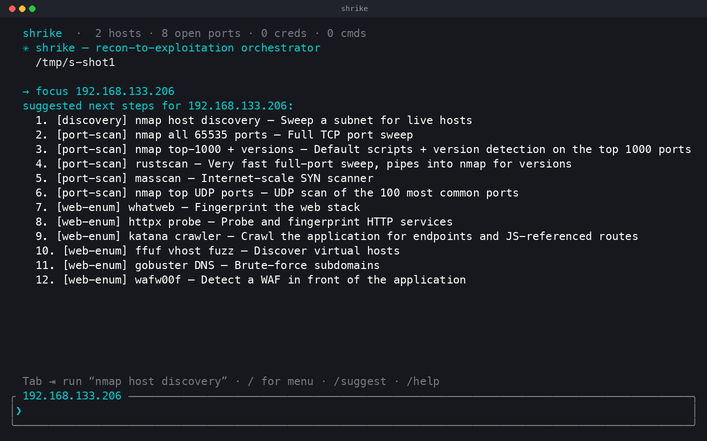
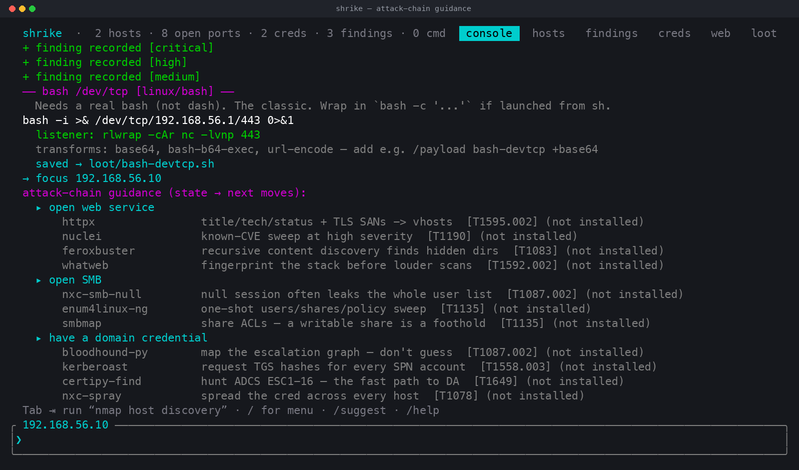
docs: polish pass — refresh screenshots, add positioning + feature coverage
- Regenerate all screenshots against the current 6-view UI (console/hosts/findings/
  creds/web/loot) with a realistic AD engagement: new hero (attack-chain guidance),
  refreshed hosts/findings/creds views, command palette, payloads, listener, and a
  new Loot view (11-view-loot.png).
- README: add a 'How it compares' section (shrike vs Metasploit vs Viper) that's
  honest about form factor and the deliberate no-agents/no-implants boundary; refresh
  the feature bullets to cover post-ex, /next guidance, scope guard, workspaces,
  vault, web dashboard and MSF; extend the screenshot gallery.
- Swap the loot-view row's emoji icons for plain text labels so it renders cleanly in
  any terminal (emoji still used in the HTML report).

diff --git a/README.md b/README.md
@@ -9,7 +9,7 @@
 📖 [Install](docs/INSTALL.md) · [Usage](docs/USAGE.md) · [Contributing](CONTRIBUTING.md) · [Security](SECURITY.md)
 
 <p align="center">
-  <img src="docs/images/01-overview.png" alt="shrike — context-aware next-step suggestions" width="100%">
+  <img src="docs/images/01-overview.png" alt="shrike — state-aware attack-chain guidance" width="100%">
 </p>
 
 
@@ -47,6 +47,17 @@ Written in **Rust** (async, ratatui TUI) for fast, reliable, highly-parallel exe
   feroxbuster is parsed into findings and discovered paths; `/finding` records your
   own. Export a self-contained **HTML report** (`/html`) or the phase-grouped
   `notes.md`.
+- **Session post-exploitation.** Once a shell lands, run OS-aware recon (`/enum`),
+  named post-modules (`/module`), a PTY upgrade (`/upgrade`), and move files over the
+  socket (`/upload` / `/download`) — output is auto-harvested for credentials.
+- **State-aware guidance.** `/next` reads the engagement and recommends the next
+  concrete moves with a rationale and a MITRE ATT&CK tag; findings and commands are
+  ATT&CK-tagged in the report.
+- **Stays in scope.** `/scope in|out` plus a pre-flight guard that blocks tools aimed
+  at out-of-scope targets (audited) — a safety net MSF and Viper don't have.
+- **Multi-engagement + evidence.** Switch engagements with `/workspace`, browse a Loot
+  view (F6), export the credential vault (`/vault` → hashcat/john/csv), watch it all in
+  a read-only browser dashboard (`/web`), and drive a Metasploit `msfrpcd` (`/msfrpc`).
 - **Runs many hosts at once.** A bounded async worker pool streams each job's output
   back to the UI live, with per-job timeouts and Ctrl-C cancellation.
 - **Never loses work.** State is serialised to disk after every command; a session
@@ -85,10 +96,38 @@ Written in **Rust** (async, ratatui TUI) for fast, reliable, highly-parallel exe
 <tr>
 <td colspan="2">
 <img src="docs/images/10-listener.png" alt="Reverse-shell listener"><br>
-<sub><b>Managed reverse-shell listener</b> (<code>/listen</code>) — catches shells from generated payloads as tracked sessions; stream output, <code>/send</code> commands, or <code>/interact</code> for a full raw-mode terminal (Ctrl-] detaches).</sub>
+<sub><b>Managed reverse-shell listener</b> (<code>/listen</code>) — catches shells from generated payloads as tracked sessions; stream output, <code>/send</code> commands, <code>/enum</code>/<code>/upload</code>/<code>/download</code> post-ex, or <code>/interact</code> for a full raw-mode terminal (Ctrl-] detaches).</sub>
+</td>
+</tr>
+<tr>
+<td colspan="2">
+<img src="docs/images/11-view-loot.png" alt="Loot & evidence view"><br>
+<sub><b>Loot &amp; evidence</b> (F6) — downloads, credential-vault exports and scan artifacts tracked automatically; one of six switchable dashboard views (hosts / findings / creds / web / loot).</sub>
 </td>
 </tr>
 </table>
+
+## How it compares
+
+shrike is a single self-contained Rust **terminal** framework — not a web app, not an
+agent/implant, and it doesn't reimplement Metasploit. It's the orchestration layer that
+ties the tools you already have into one coherent, scope-guarded, well-documented workflow.
+
+| | shrike | Metasploit | Viper |
+|---|---|---|---|
+| Form factor | single static binary, TUI | Ruby + DB | web GUI + DB + Docker |
+| Backend | your existing Kali tools | built-in modules | Metasploit |
+| Recon → exploit orchestration | ✅ 103-tool catalog + suggestions | partial | partial |
+| State-aware next-step guidance | ✅ `/next` + MITRE | ❌ | ❌ |
+| Engagement scope guard | ✅ blocks out-of-scope | ❌ | ❌ |
+| Reverse-shell listener + post-ex | ✅ built-in | ✅ | ✅ (meterpreter) |
+| Credential vault + loot + report | ✅ | ✅ | ✅ |
+| Metasploit integration | ✅ via `msfrpcd` | — | ✅ |
+| Custom agents / implants | ❌ (by design) | ✅ | ✅ |
+
+Use shrike when you want MSF/Viper's *workflow* — sessions, loot, modules, a report — in
+one fast local binary that drives your own toolchain and keeps you inside the rules of
+engagement. Reach for Metasploit/Viper when you need their exploit modules or agent implants.
 
 ## Documentation
 
